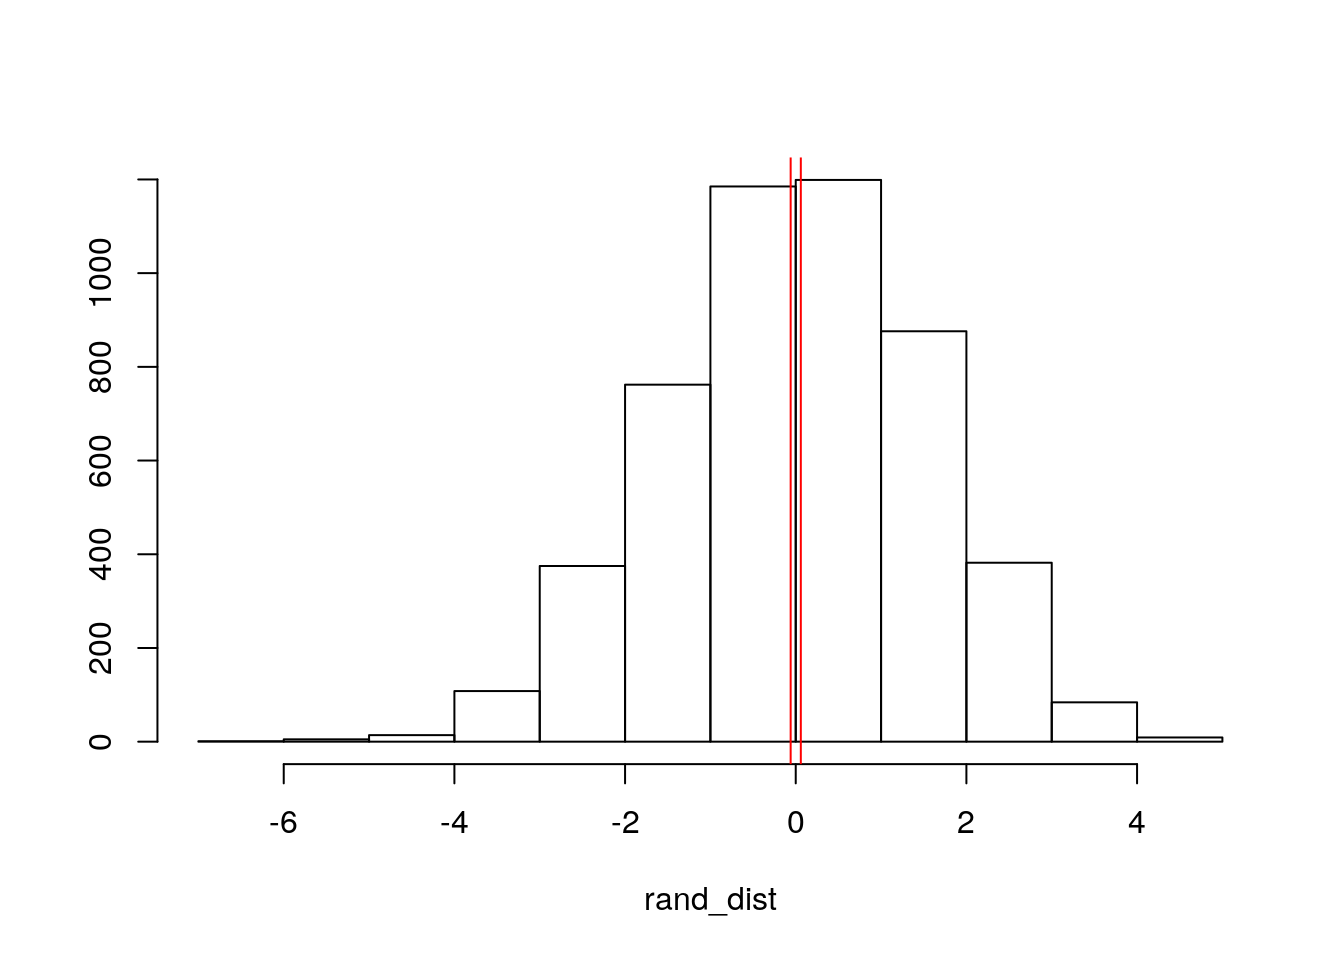
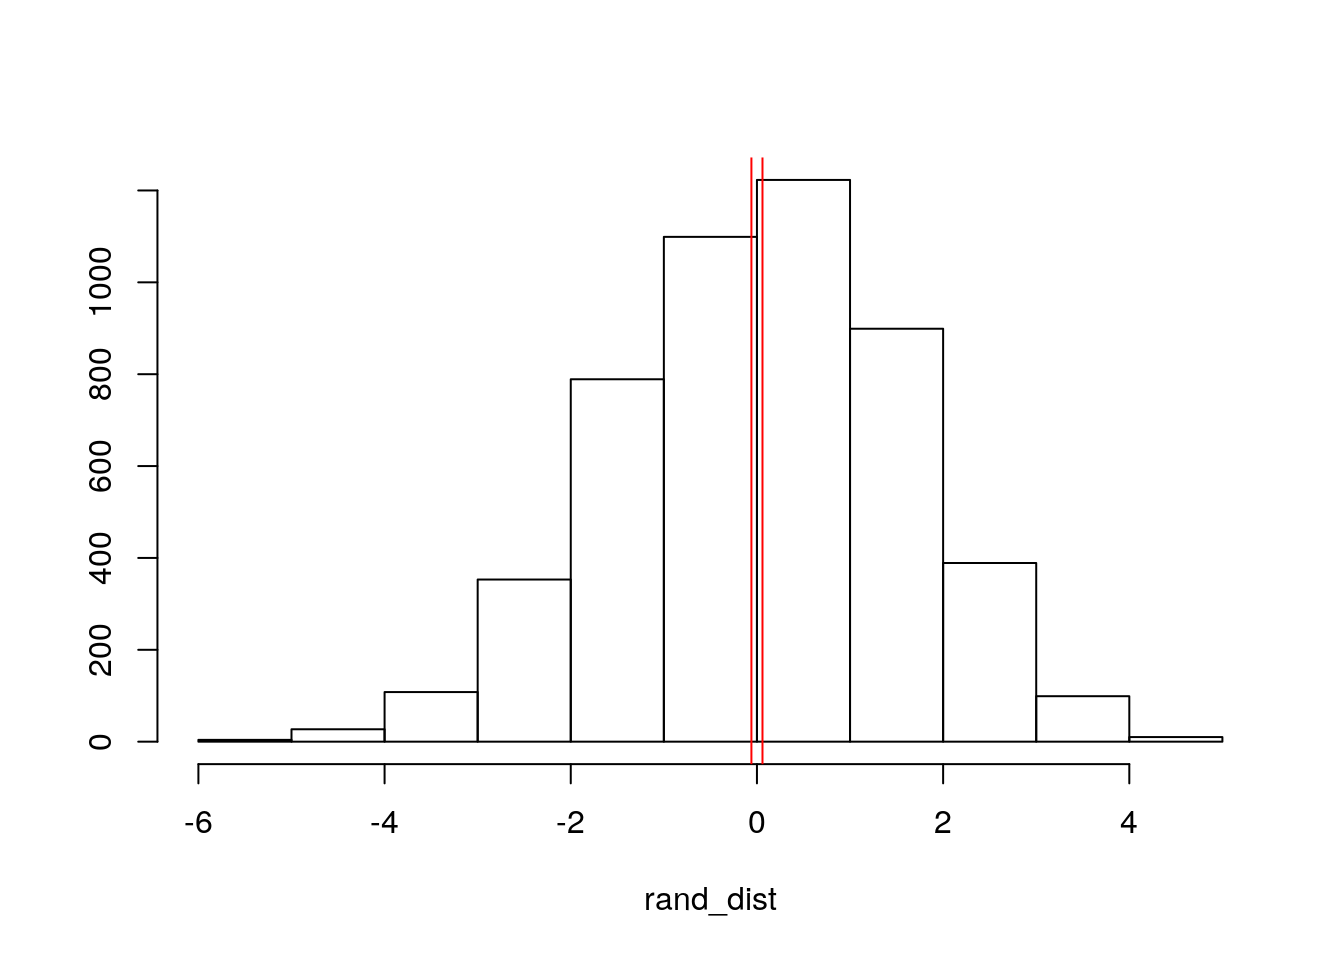
some message

diff --git a/website/website/content/project/project2.html b/website/website/content/project/project2.html
@@ -229,7 +229,7 @@ for (i in 1:5000) {
 }</code></pre>
 <p><img src="/project/project2_files/figure-html/unnamed-chunk-2-2.png" width="672" style="display: block; margin: auto;" /></p>
 <pre class="r"><code>mean(rand_dist &gt; 0.0595 | rand_dist &lt; -0.0595)</code></pre>
-<pre><code>## [1] 0.9802</code></pre>
+<pre><code>## [1] 0.9778</code></pre>
 <p><em>The null hypothesis is that there are no differences (mean difference is equal to 0) between the mean length of bird between solid/plain colored eggs and speckled/spotted colored eggs. The alternative hypothesis is that there is a difference (mean difference does not equal 0) between the mean length of bird between solid/plain colored eggs and speckled/spotted colored eggs. The mean difference was found to be 0.0595 which indicates that we fail to reject the null hypothesis that there are no differences in mean length between egg colors. The p-value was found to be .9794 which indicates that the results that were found are not significant and are very likely due to chance.</em></p>
 </div>
 <div id="linear-regression" class="section level5">
@@ -314,7 +314,7 @@ samp_distn &lt;- replicate(5000, {
 
 samp_distn %&gt;% t %&gt;% as.data.frame %&gt;% summarize_all(sd)</code></pre>
 <pre><code>##   (Intercept)    Color  Incubate Color:Incubate
-## 1    11.84459 12.76795 0.8864486      0.9597212</code></pre>
+## 1    11.78208 12.63939 0.8776572      0.9460583</code></pre>
 <p><em>For the intercept, 17.608 is the mean/predicted length for solid/plain colored eggs with a mean incubation time of 13.35. For birds with an average incubation time, speckled/spotted eggs have a predicted length that is 0.0227 greater (t=.017, p=.9867). For every one unit increase in incubation time, predicted length goes up by 0.015 for speckled/spotted eggs (t=.016, p=.9872). The slope for length on incubate is 1.736 greater for speckled or spotted eggs than for solid colored eggs (t=1.77, p=.0806). The assumptions of homoskedasticity, linearity, and normality all appear to be met. There are no significant results after running the linear regression model.This model explains .2271 proportion of the variation of the outcome (adjusted R-squared). After performing the robust standard errors, compared to the original SEs, the SEs decreased by a small amount for each value while the p-values remained about the same for color and incubate_c but slightly decreased for the interaction. None of the results are significant, although the interaction is very close to being significant. After performing the bootstrapped SEs, the SE for color and the intercept is much higher than the original SE, while the incubate and color:incubate SEs are about the same as the original SEs.</em></p>
 </div>
 <div id="fitted-logistic-regression" class="section level5">
@@ -849,7 +849,7 @@ summarize_all(diags, mean)</code></pre>
 ## [65] vctrs_0.3.2       foreach_1.5.0     cellranger_1.1.0  gtable_0.3.0     
 ## [69] assertthat_0.2.1  xfun_0.16         openxlsx_4.1.5    broom_0.7.0      
 ## [73] survival_3.2-7    iterators_1.0.12  ellipsis_0.3.1</code></pre>
-<pre><code>## [1] &quot;2020-12-11 09:49:21 CST&quot;</code></pre>
+<pre><code>## [1] &quot;2020-12-13 12:32:19 CST&quot;</code></pre>
 <pre><code>##                                       sysname 
 ##                                       &quot;Linux&quot; 
 ##                                       release 

diff --git a/website/website/content/post/2020-12-11-coding-skills.html b/website/website/content/post/2020-12-11-coding-skills.html
@@ -13,8 +13,8 @@ description: ''
 <p><a href="/project/project1/">Link to Project 1</a></p>
 <p><a href="https://www.google.com">Link to google</a></p>
 <div class="figure">
-<img src="/post/2020-12-11-coding-skills_files/Orange_Girl.png" style="width:50.0%" />
-
+<img src="/post/2020-12-11-coding-skills_files/Orange_Girl.png" alt="Something I drew over quarantine." style="width:50.0%" />
+<p class="caption">Something I drew over quarantine.</p>
 </div>
 <p>This is a ggplot in r that is animated to show how GDP per capita vs life expectancy changes from the years 1954-2007.</p>
 <pre class="r"><code>library(ggplot2)
